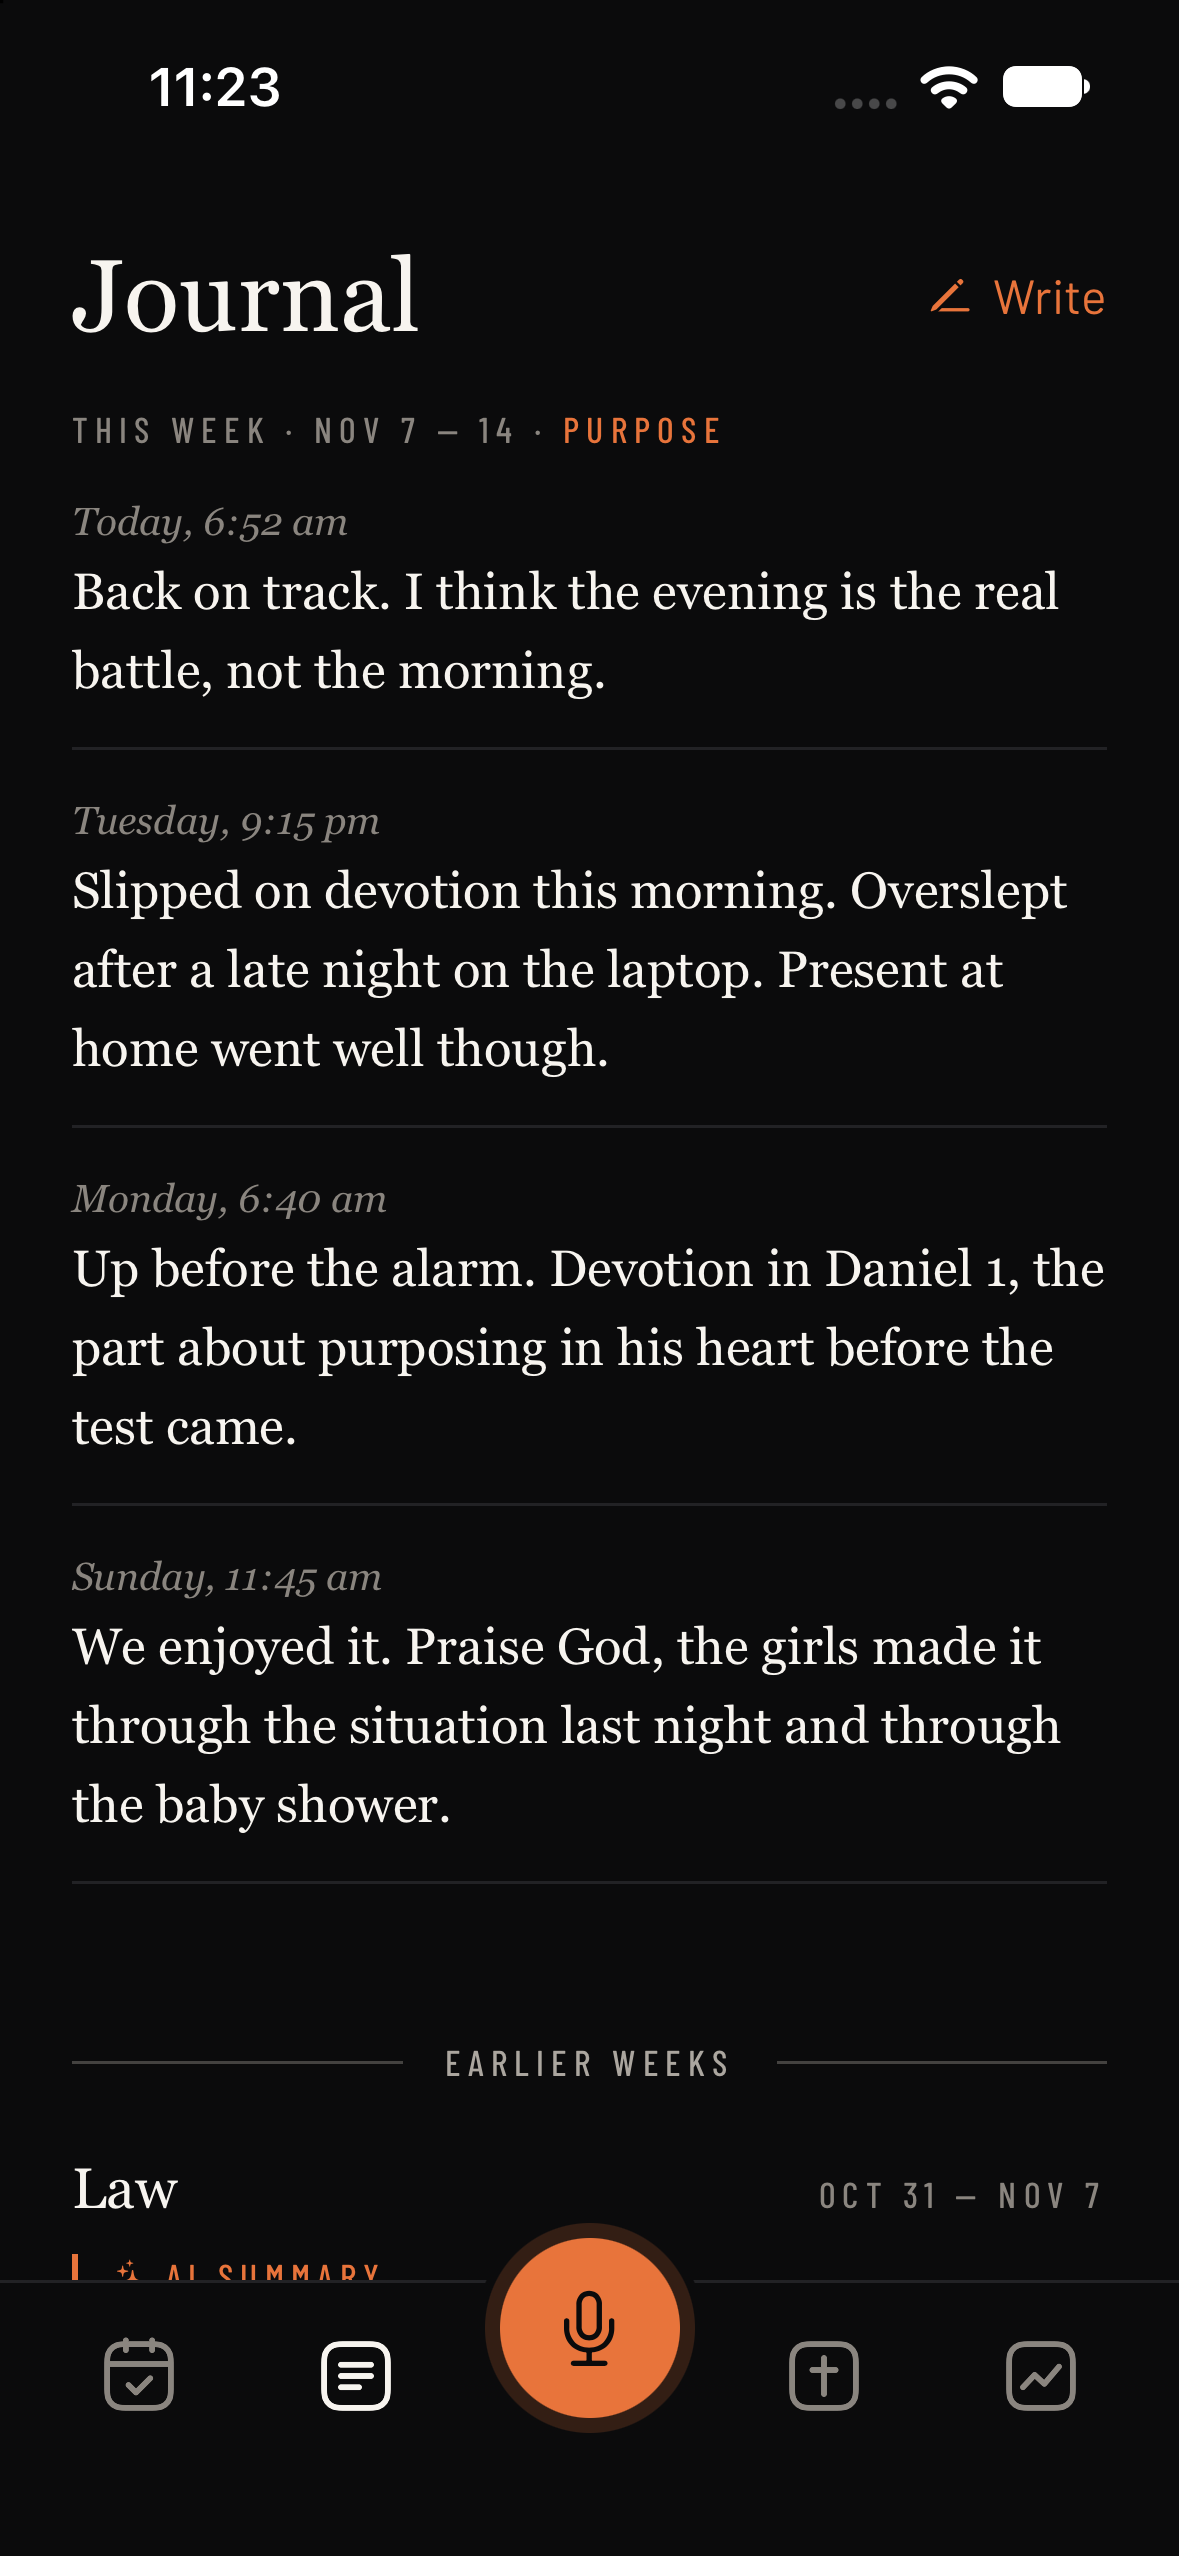
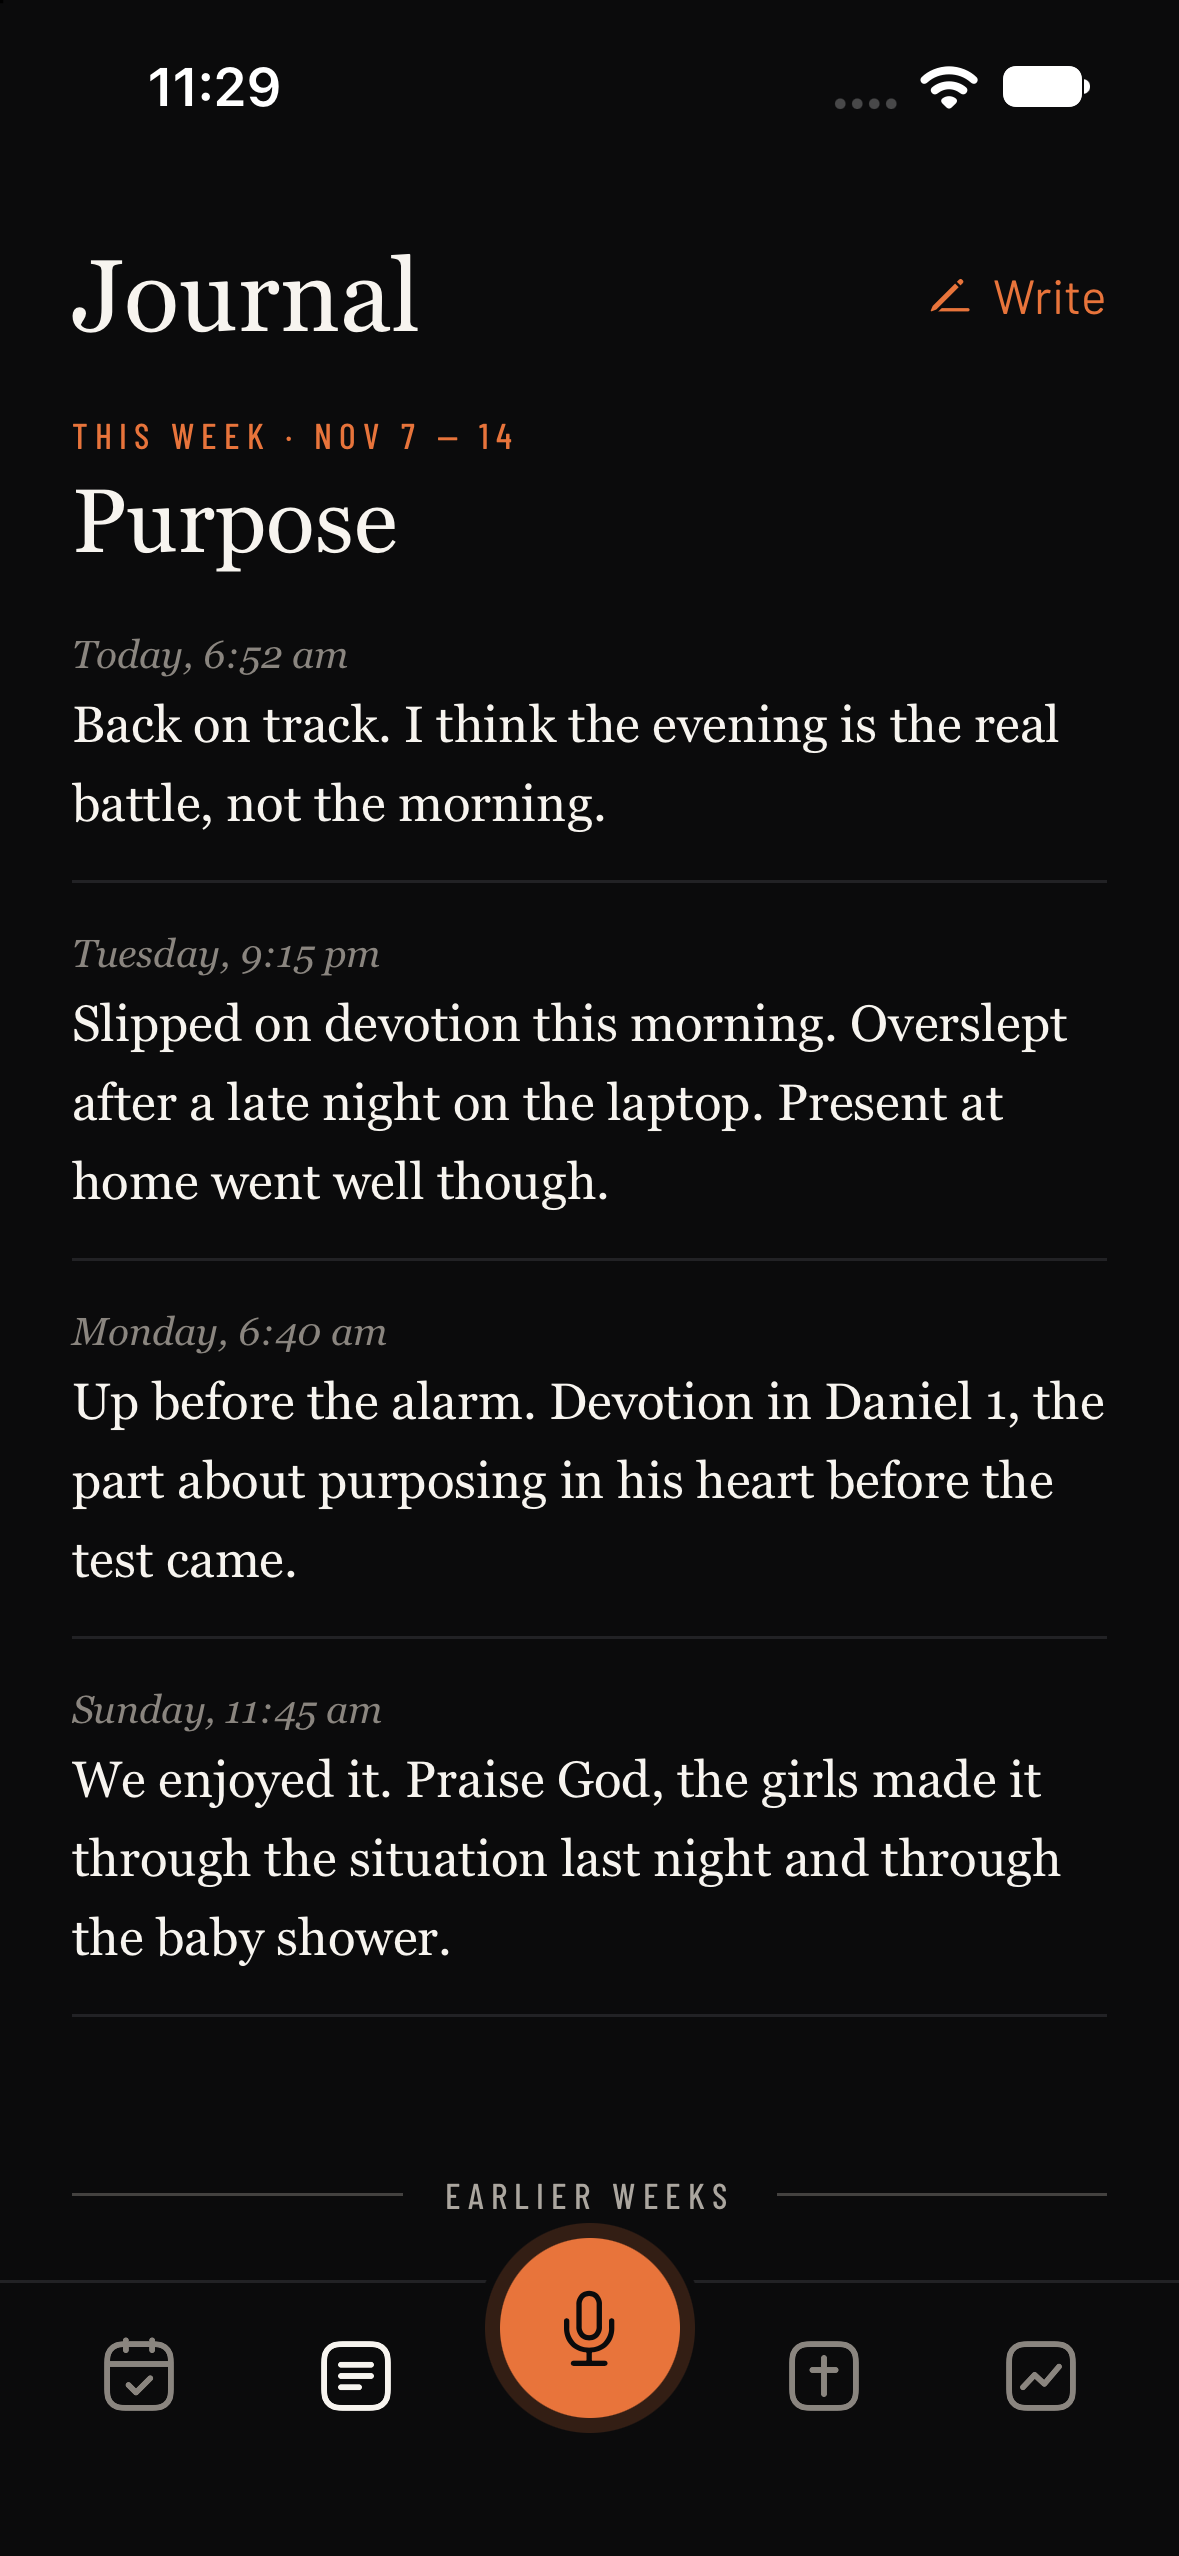
iOS: this week's focus word is a heading in Journal

diff --git a/ios/WeeklyDirection/JournalList.swift b/ios/WeeklyDirection/JournalList.swift
@@ -102,8 +102,9 @@ struct JournalList: View {
                 }
                 RecorderStatus().padding(.top, 10)
                 if let w = store.activeWeek {
-                    (Text("This week · \(Fmt.weekRange(w, store.settings)) · ").foregroundColor(Theme.mu2) + Text(w.focus).foregroundColor(Theme.ac))
-                        .font(Theme.label(12)).tracking(2.4).textCase(.uppercase).padding(.top, 18)
+                    // this week's focus word leads the page, as large as the earlier weeks' names are small
+                    Eyebrow(text: "This week · \(Fmt.weekRange(w, store.settings))", color: Theme.ac).padding(.top, 20)
+                    Text(w.focus).font(Theme.jserif(30)).foregroundStyle(Theme.tx).padding(.top, 4).padding(.bottom, 4)
                     let ents = Array(Journal.entries(w.liveRefl).reversed())
                     if ents.isEmpty {
                         Text("Nothing yet this week.").font(Theme.jitalic(17)).foregroundStyle(Theme.mu2).padding(.top, 14)
